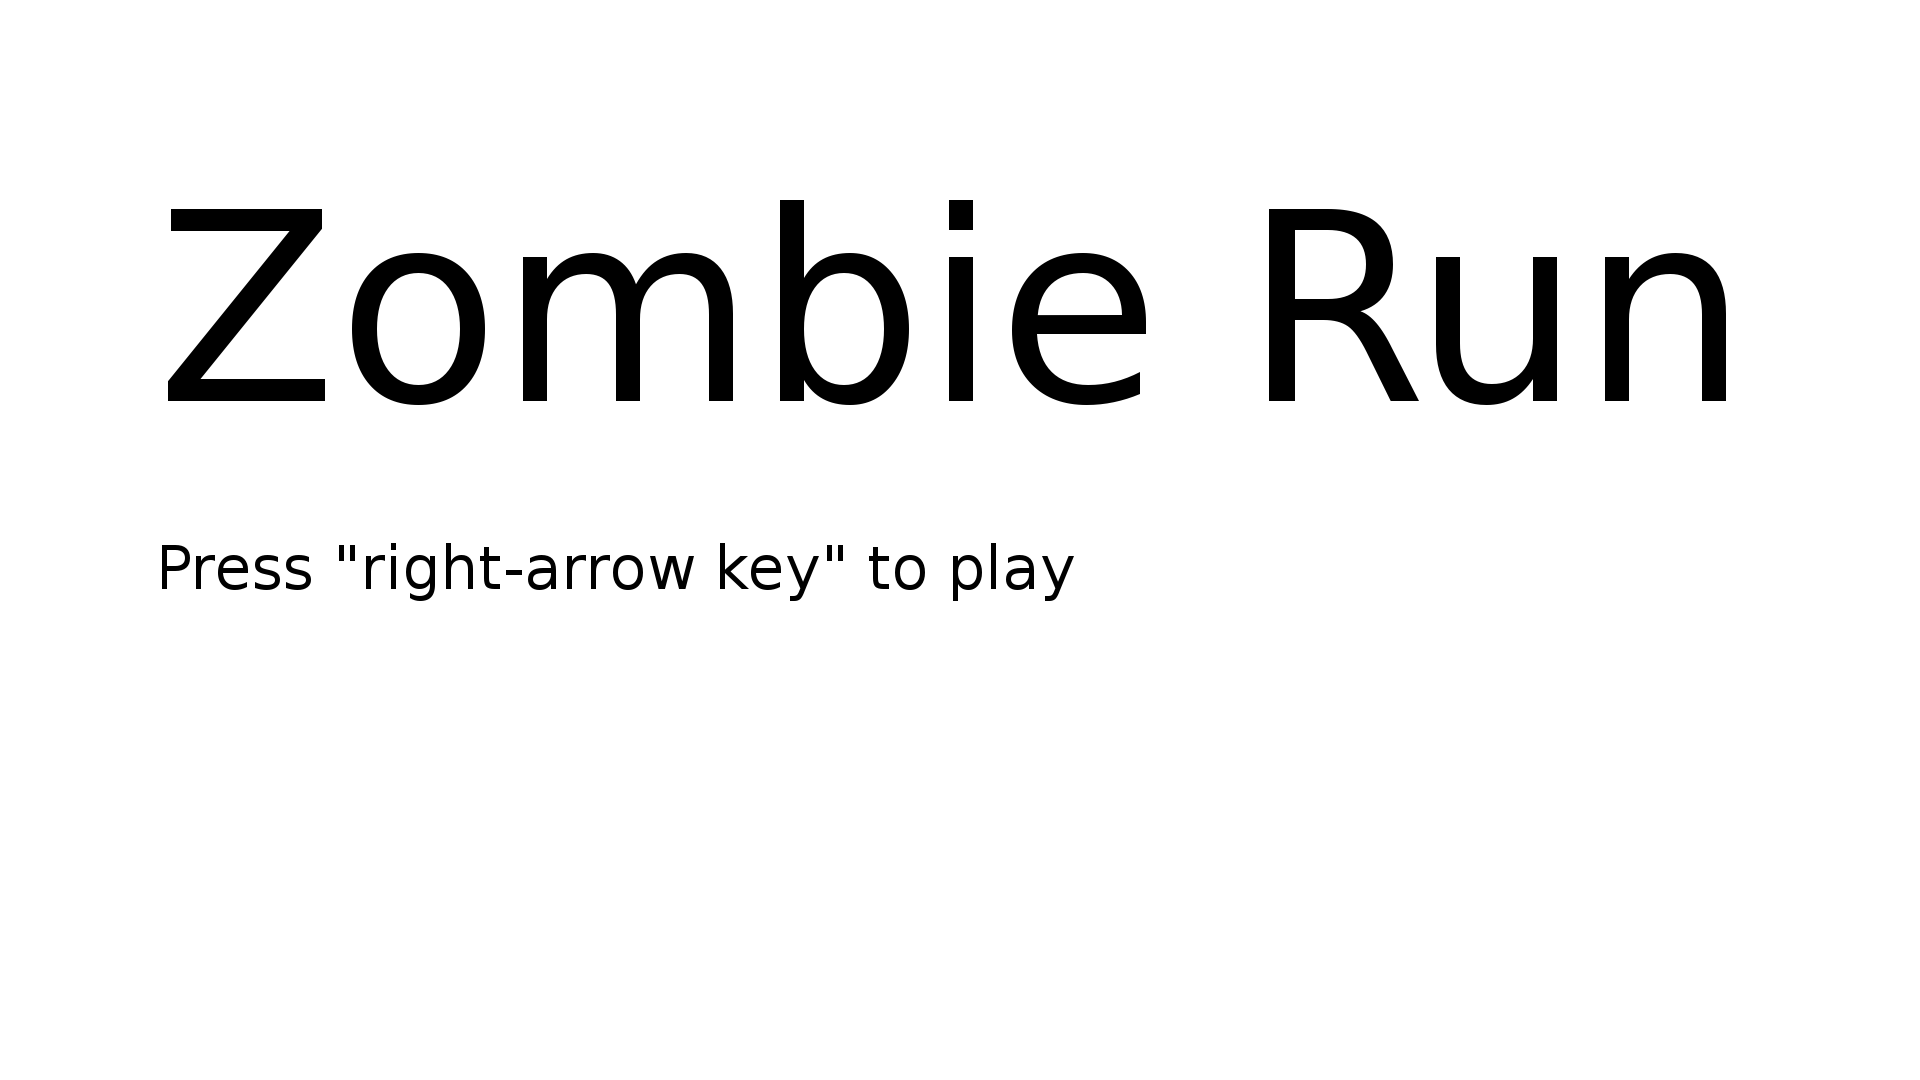
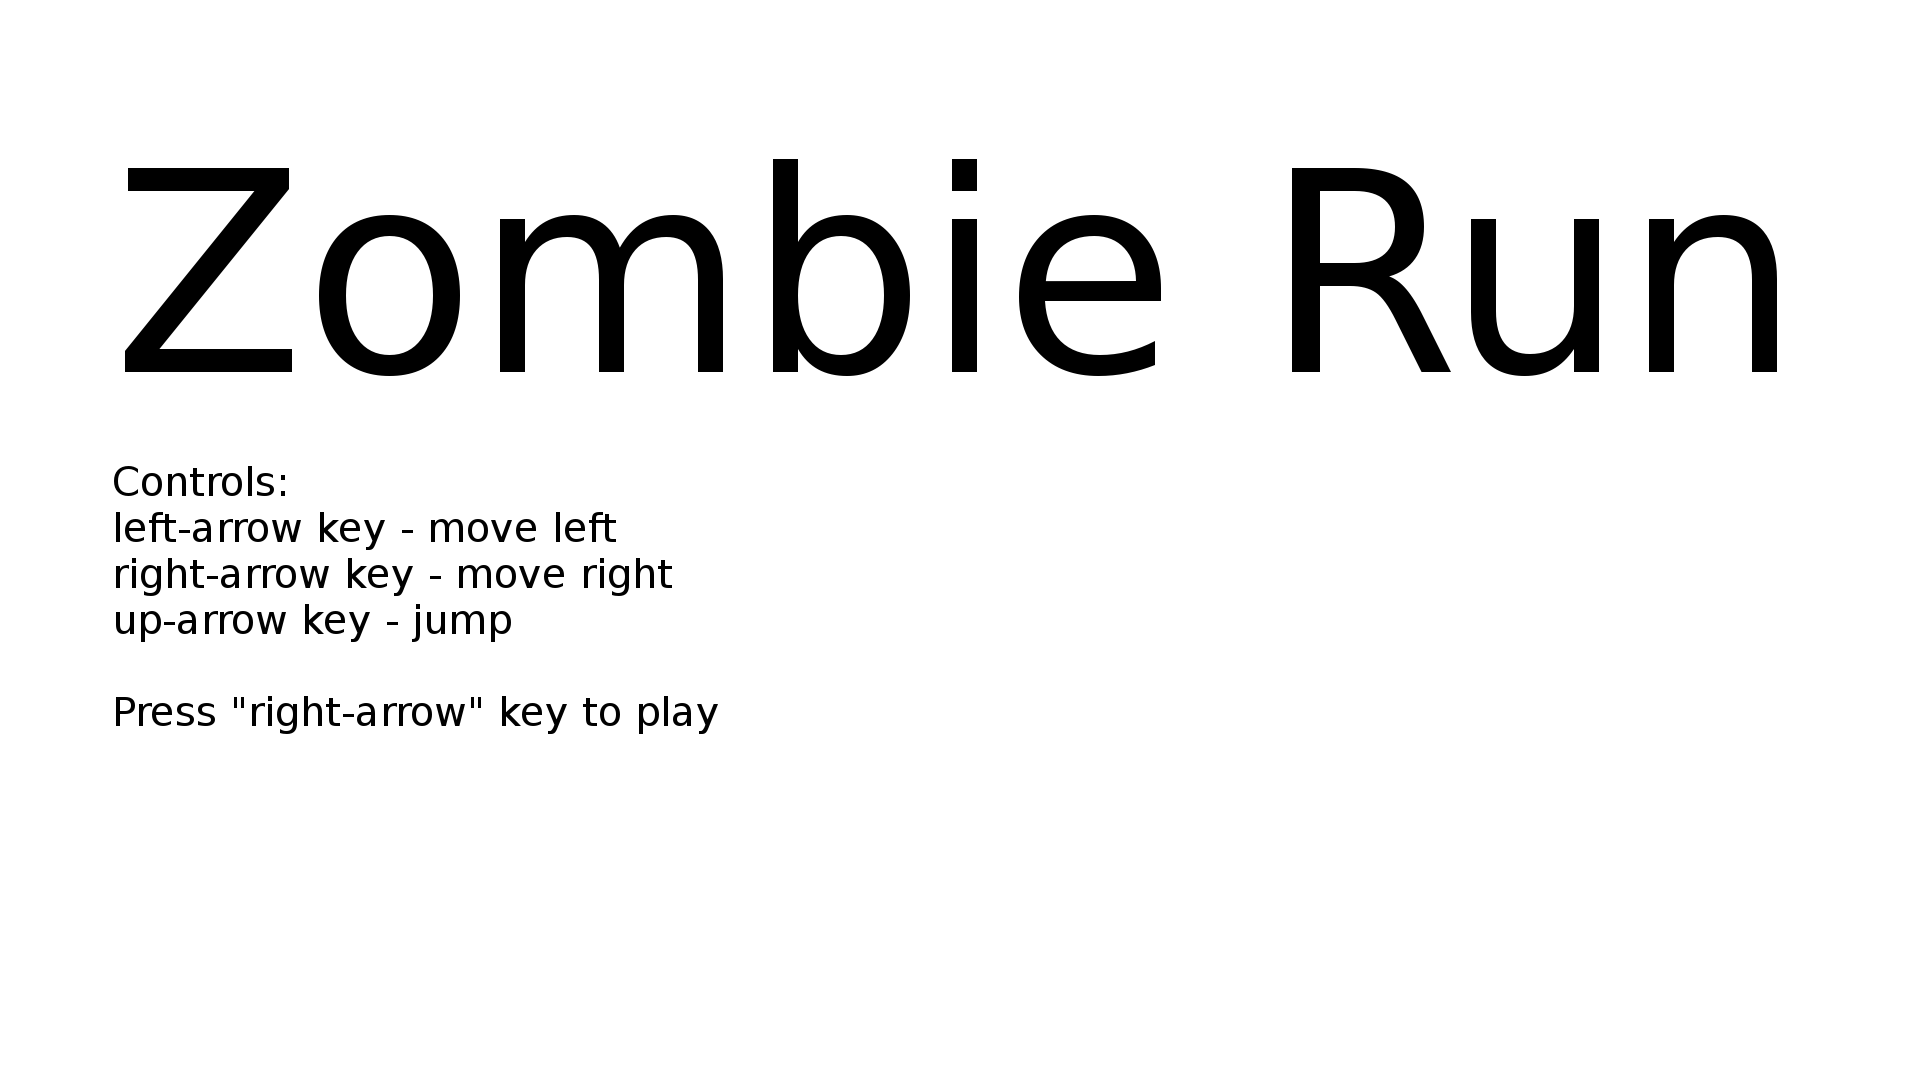
Change jump button from space to up/w keys

diff --git a/Assets/Scripts/Player/PlayerMovement.cs b/Assets/Scripts/Player/PlayerMovement.cs
@@ -25,7 +25,7 @@ public class PlayerMovement : MonoBehaviour {
 
 		GetComponent<Rigidbody2D> ().MoveRotation (0); // no rotation
 
-		if (Input.GetKeyDown (KeyCode.Space) && grounded) {
+		if ((Input.GetKeyDown (KeyCode.UpArrow) || Input.GetKeyDown (KeyCode.W)) && grounded) {
 			// jump
 			GetComponent<Rigidbody2D> ().AddForce (new Vector2 (0, 400));
 			grounded = false;
